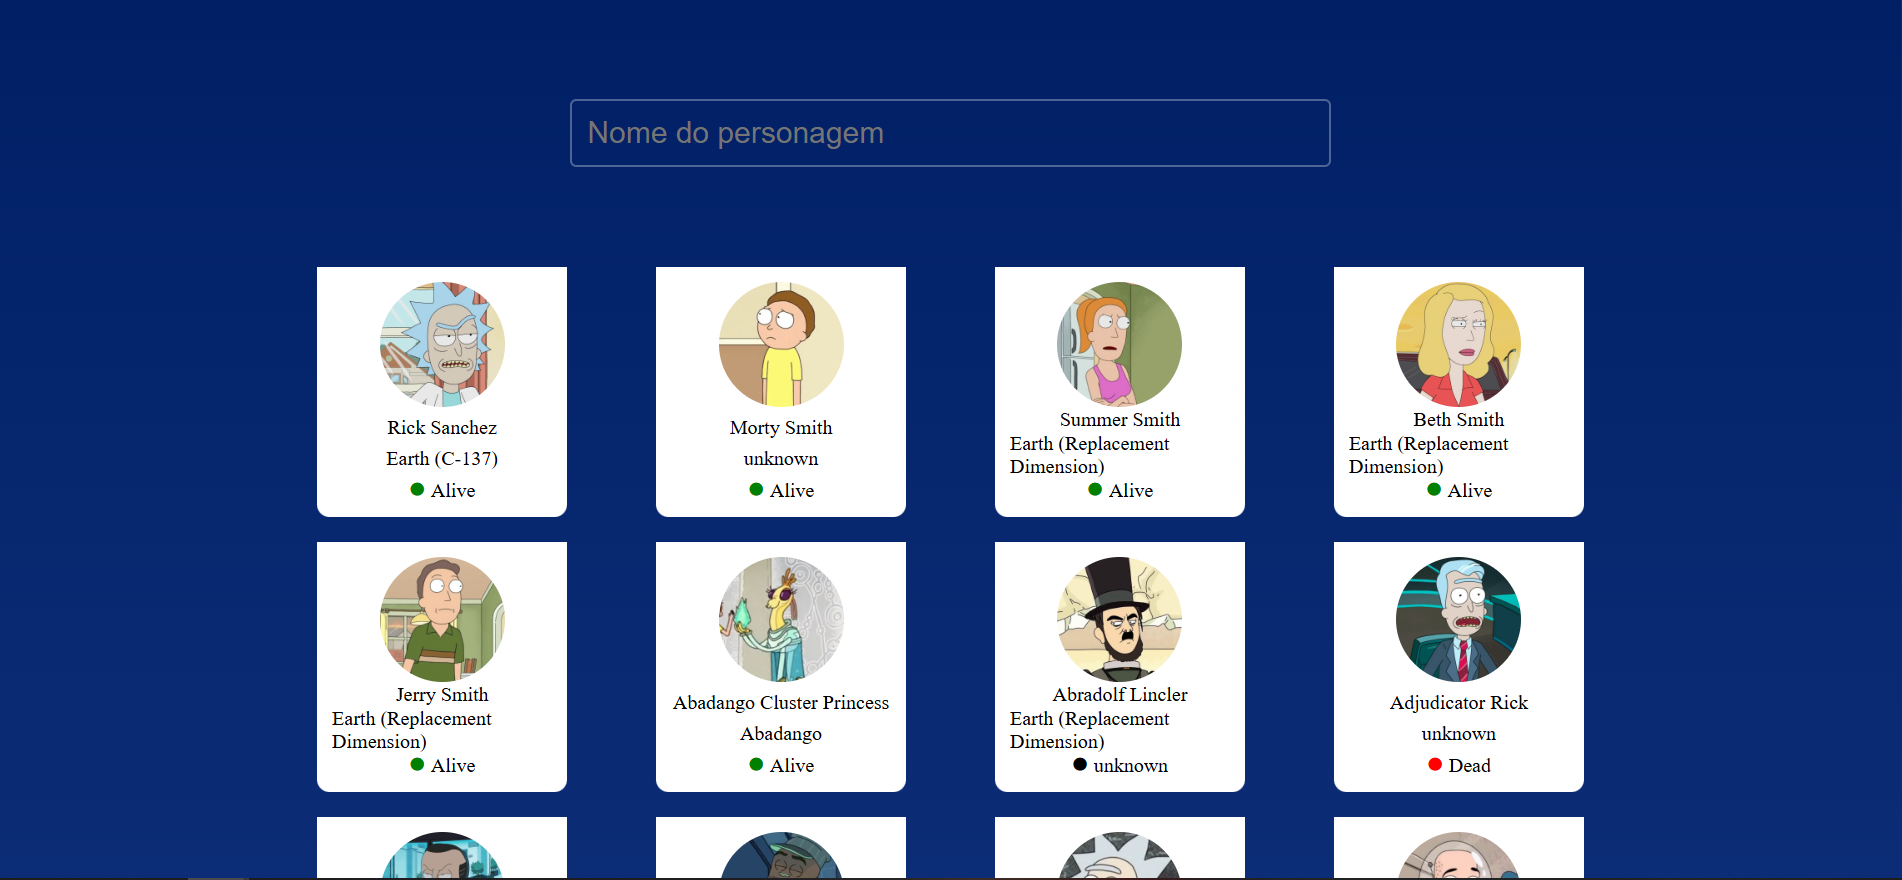
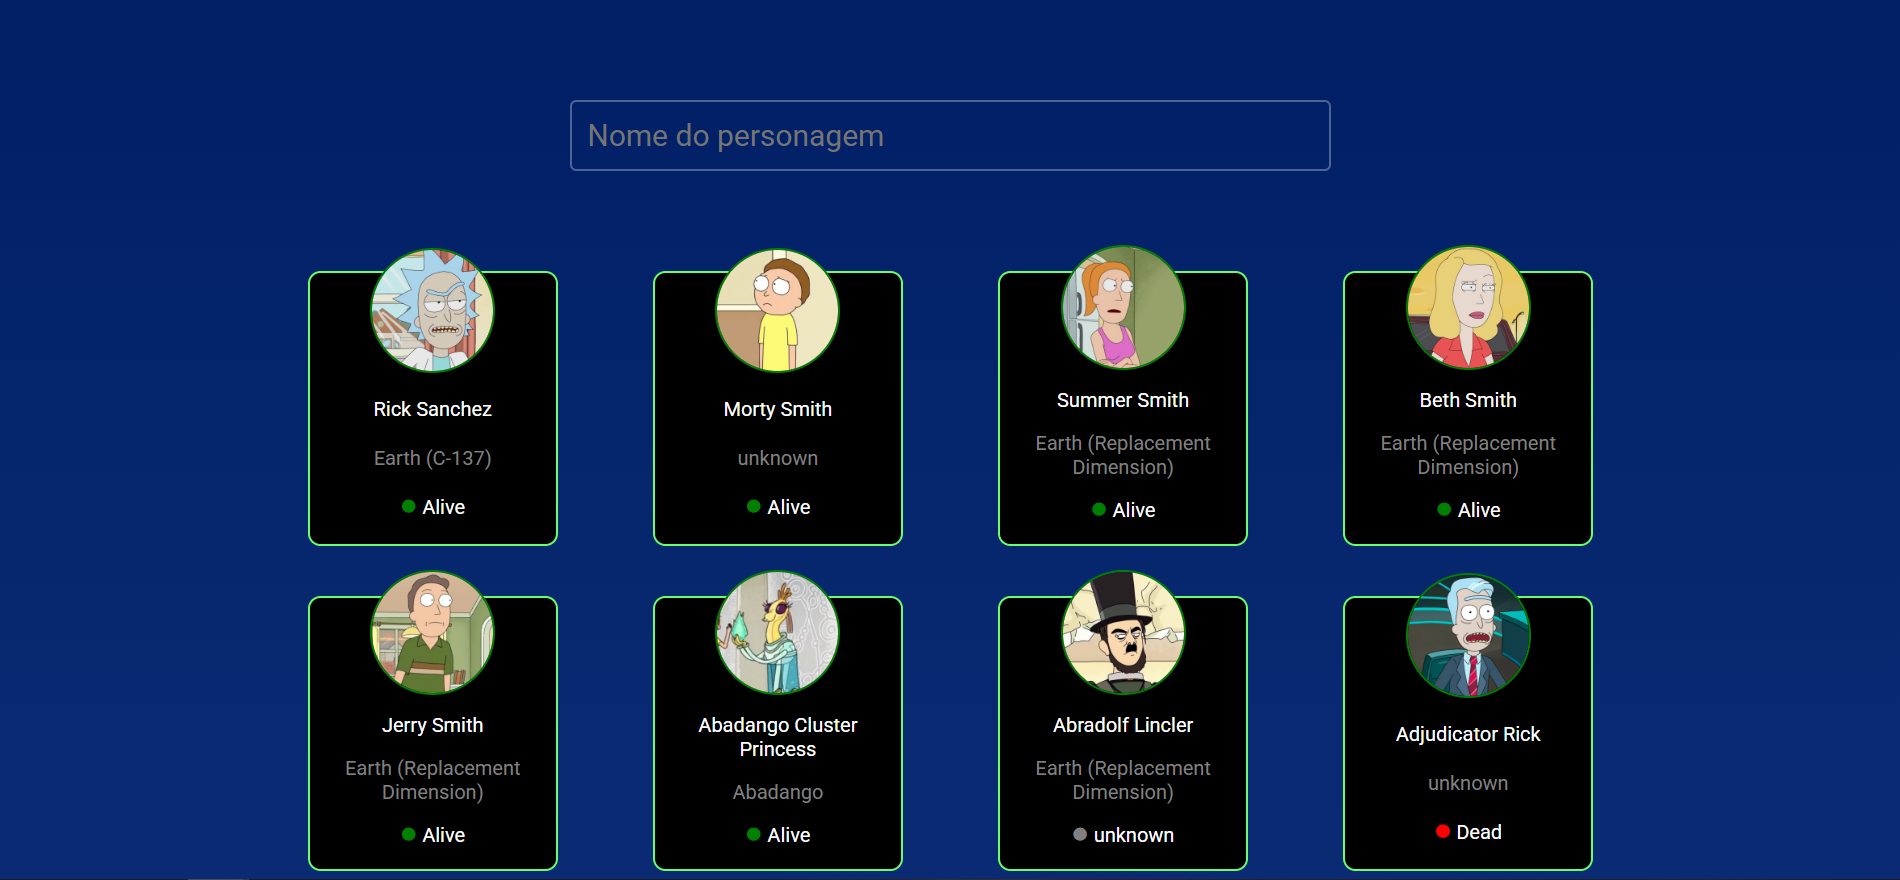
Arrumei o CSS para as imagens ficarem para fora dos cards

diff --git a/CSS/style.css b/CSS/style.css
@@ -4,6 +4,7 @@
     margin: 0;
     padding: 0;
     box-sizing: border-box;
+    font-family: "Roboto", sans-serif;
 }
 
 body {
@@ -40,20 +41,35 @@ input {
 }
 
 .card {
-    background-color: white;
+    background-color: black;
     width: 200px;
-    height: 200px;
-    border-radius: 0 0 10px 10px;
+    height: 220px;
+    border-radius: 10px;
+    border: solid 2px rgb(105, 255, 105);
     display: flex;
     flex-direction: column;
     align-items: center;
-    justify-content: space-between;
-    padding: 12px;
+    justify-content: space-around;
+    padding: 10px;
+    color: #ffff;
     
 }
 
+.card-nome {
+    font-size: 1em;
+    text-align: center;
+}
+
+.card-local {
+    font-size: 1em;
+    text-align: center;
+    color: gray;
+}
+
 .card:hover {
-    border:solid 5px green;
+    transition: ease-in-out 0.3s;
+    transform: scale(1.1);
+    box-shadow: 0px 0px 20px rgb(0, 155, 114);
 }
 
 .section-cards {
@@ -62,15 +78,24 @@ input {
     flex-direction: row;
     justify-content: space-around;
     align-items: center;
-    gap: 20px;
+    gap: 40px;
     flex-wrap: wrap;
 }
 
-.card-img {
+.container-img {
+    height: 30%;
+    display: flex;
+    justify-content: center;
+    position: relative;
+    width: 100%;
+}
+
+.card-img {  
     width: 100px;
     border-radius: 50%;
-    
-    
+    position: absolute;
+    top:-40px;
+    border: solid 2px green;
 }
 
 footer {

diff --git a/JS/script.js b/JS/script.js
@@ -10,8 +10,7 @@ function chamarAPI(value) {
     const apiRequest = fetch(endpoint).then((res) => res.json().then((elem) => {
         //console.log(elem);
         return elem;
-        
-        
+
     }));
 
     return apiRequest;
@@ -22,8 +21,12 @@ function criandoCards() {
     divSection.appendChild(divCard);
     divCard.classList.add('card');    
 
+    const container_img = document.createElement('div');
+    divCard.appendChild(container_img);
+    container_img.classList.add('container-img');
+
     const img_cards = document.createElement('img');
-    divCard.appendChild(img_cards);
+    container_img.appendChild(img_cards);
     img_cards.classList.add('card-img');
     //let resultado = await chamarAPI(1);
 
@@ -91,7 +94,7 @@ async function imprimirInfos() {
             sim.style.color = "red";
         break;
     default:
-        sim.style.color = "black";
+        sim.style.color = "gray";
     }
 })
 

diff --git a/index.html b/index.html
@@ -5,6 +5,11 @@
     <meta name="viewport" content="width=device-width, initial-scale=1.0">
     <link rel="stylesheet" href="CSS/style.css">
     <link rel="stylesheet" href="https://cdnjs.cloudflare.com/ajax/libs/font-awesome/7.0.1/css/all.min.css" integrity="sha512-2SwdPD6INVrV/lHTZbO2nodKhrnDdJK9/kg2XD1r9uGqPo1cUbujc+IYdlYdEErWNu69gVcYgdxlmVmzTWnetw==" crossorigin="anonymous" referrerpolicy="no-referrer" />
+    
+    <link rel="preconnect" href="https://fonts.googleapis.com">
+    <link rel="preconnect" href="https://fonts.gstatic.com" crossorigin>
+    <link href="https://fonts.googleapis.com/css2?family=Roboto:ital,wght@0,100..900;1,100..900&display=swap" rel="stylesheet">
+    
     <script defer src="JS/script.js"></script>
     <title>Rick and Morty</title>
 </head>
